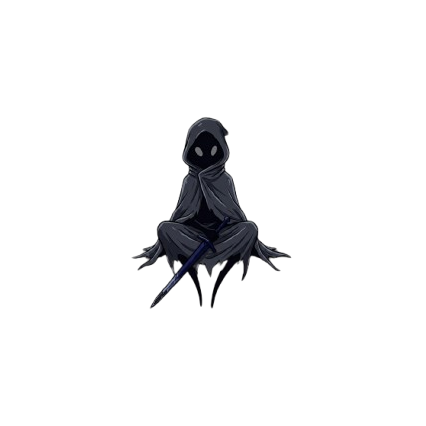
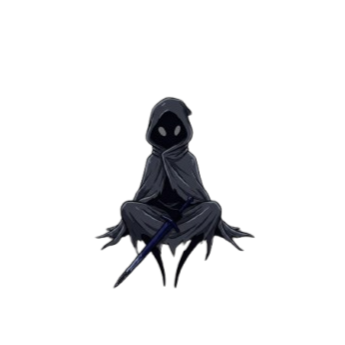
fix

Changed region(s): [[0.2609, 0.2609, 0.7536, 0.8406]]

diff --git a/Core/save.py b/Core/save.py
@@ -111,3 +111,23 @@ def supprimer_sauvegarde():
     if os.path.exists(SAVE_FILE):
         os.remove(SAVE_FILE)
         print("save deleted")
+
+
+
+"""
+class joueur_assis():
+    is_sitting = False
+    # Pour gérer l'état du joueur quand il est sur un banc
+    def __init__(self):
+        self.current_checkpoint = None
+        # Animation :
+        self.seated_idle = 'Assets/Player/seated1.png'
+
+    def sit_on_bench(self, player, checkpoint):
+        # Déclence l'animation assise et save
+        is_sitting = True
+        self.current_checkpoint = checkpoint
+        checkpoint.activated = True
+        sauvegarder(player, checkpoint, map)
+
+"""

diff --git a/Entities/perso.py b/Entities/perso.py
@@ -100,7 +100,7 @@ class Player(PhysicsEntity):
         self.anim_basic_attack2_left = VerticalAnimation(fenetre, x, y, 'Assets/Player/basic_attack2_left.png', 10, 500, 500, 0, 0)
 
         # Banc (pas une anim)
-        self.seated_idle = VerticalAnimation(fenetre, x, y, 'Assets/Player/seated1.png', 1, 196, 206, 0, 0)
+        self.seated_idle = VerticalAnimation(fenetre, x, y, 'Assets/Player/seated1.png', 1, 345, 345, 0, 0)
 
 
         self.basic_attacks_right = [
